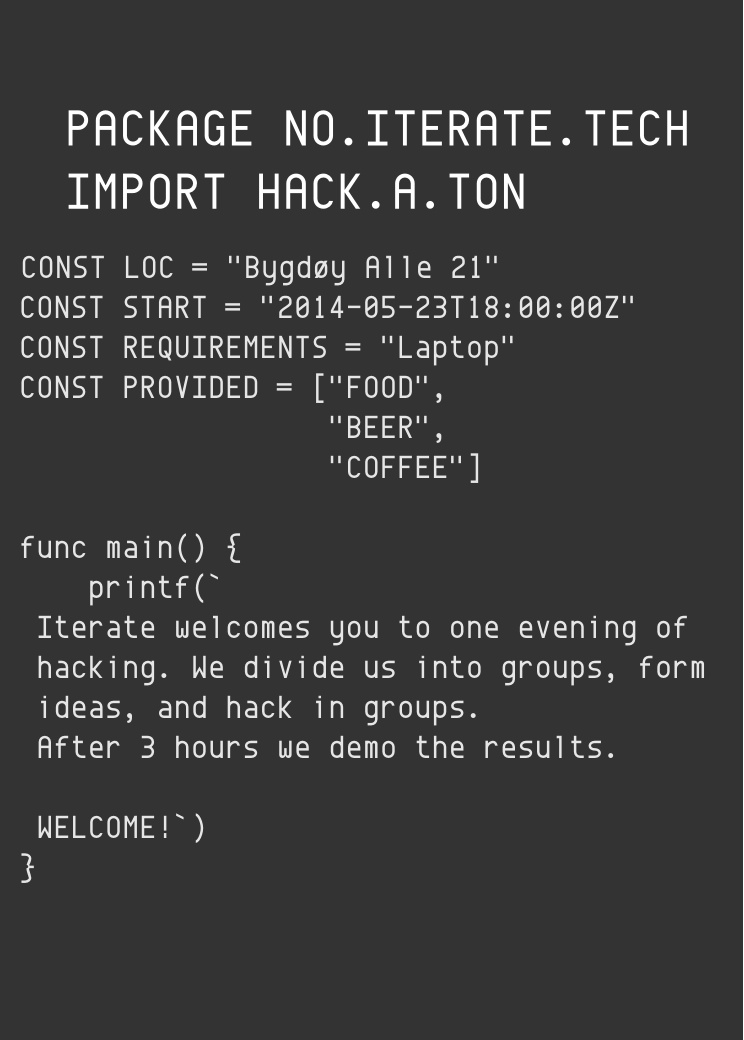
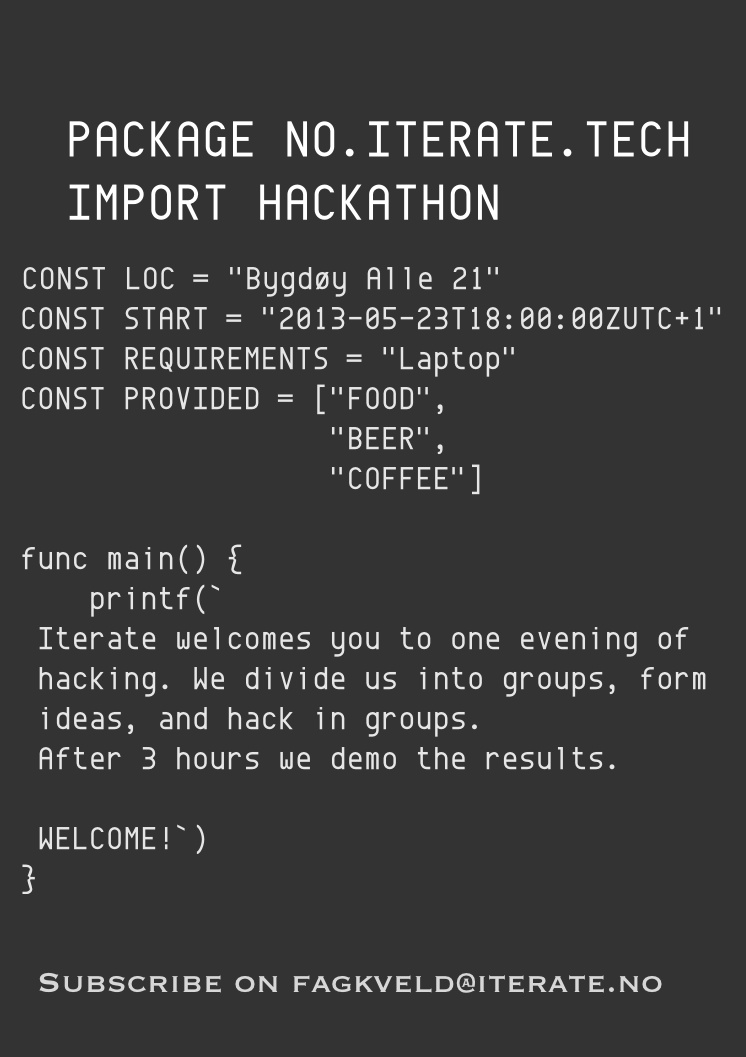
update fagkveld and møt oss page with Hackaton

diff --git a/moetoss/index.html b/moetoss/index.html
@@ -42,7 +42,6 @@ title: Iterate
 
     <aside class="grid_5 omega">
 
-
         <div class="sidebar">
             <div class="fakta">
                 <h1>Hva skjer i Iterate?</h1>
@@ -54,6 +53,37 @@ title: Iterate
                 <p>Ønsker du å bli informert om aktivitetene? Følg oss på Twitter eller Linkedin, eller abonner på vårt nyhetsbrev.</p>
 
             </div>
+        </div>
+    </aside>
+
+
+    <div class="grid_11 alpha">
+        <div class="articles">
+            <article class="preview">
+                <div class="preview-image">
+                    <img src="/static/images/motoss-hackaton_340x236.jpg" alt="Hackaton">
+                </div>
+                <div class="preview-text">
+                    <div class="pitch fag">
+                        <div class="marker"></div>
+                        <h2>Hackaton @ Iterate</h2>
+                        <div class="sub-headline">Coding for joy</div>
+
+                        <p>We welcome you to an evening of group-hacking. You bring your laptop, we provide you food, three hours of challenges and possibility to meet interesting people. </p>
+
+                        <em>Dato:</em> kl 18:00, 23.05.2013, Thursday
+                        <p class="ex"><em>Plass:</em> Iterate Headquarters. <a class="ex" href="http://iterate.no/fagkveld">Read further</a> </p>
+                    </div>
+                </div>
+            </article>
+        </div>
+
+    </div>
+
+    <aside class="grid_5 omega">
+
+        <div class="sidebar">
+
             <!-- Begin MailChimp Signup Form -->
             <link href="/static/css/slim-081711.css" rel="stylesheet" type="text/css">
             <div id="mc_embed_signup">
@@ -69,9 +99,7 @@ title: Iterate
             <!--End mc_embed_signup-->
 
         </div>
-
     </aside>
 
+
 </div>
-
-

diff --git a/fagkveld/index.html b/fagkveld/index.html
@@ -14,7 +14,6 @@ title: Iterate
 
 <img src="/static/images/hackaton.jpg" alt="package">
 
-            <p><em>Subscribe:</em> fagkveld@iterate.no</p>
 
         </article>
 
